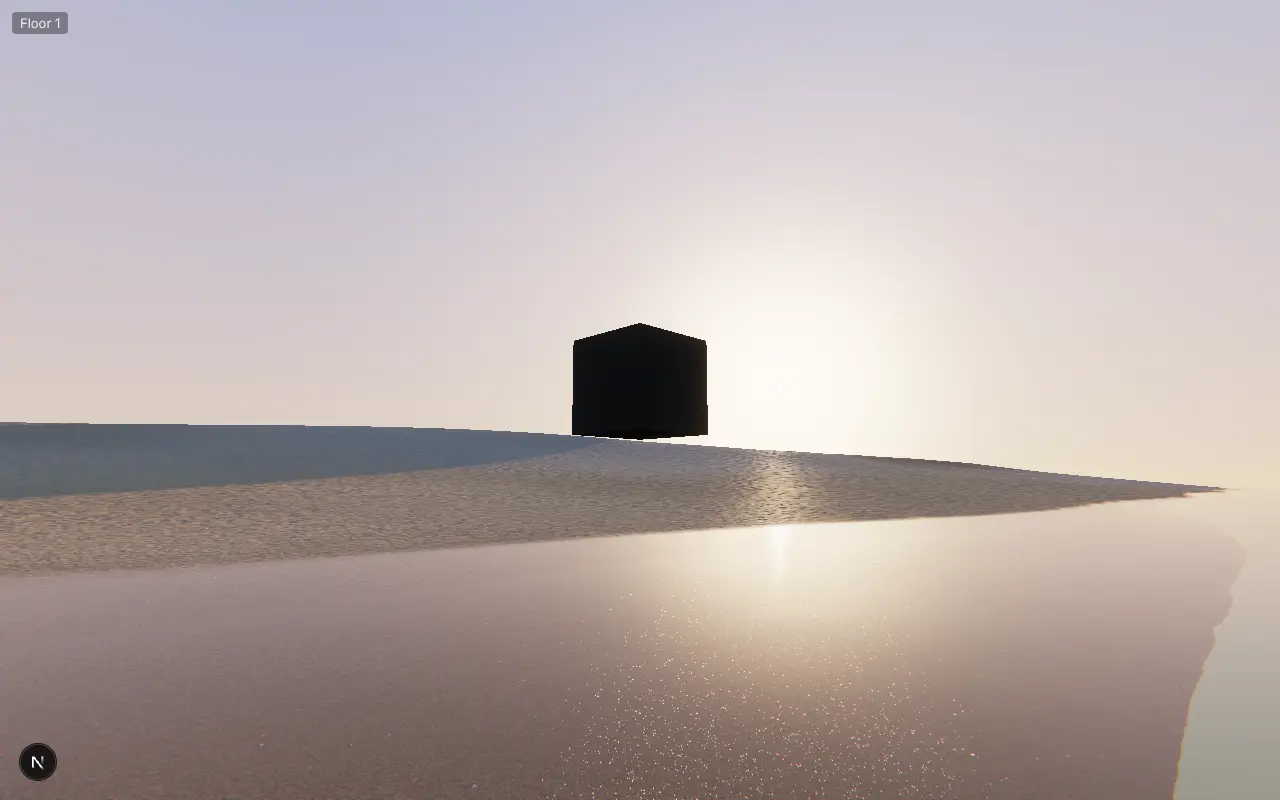
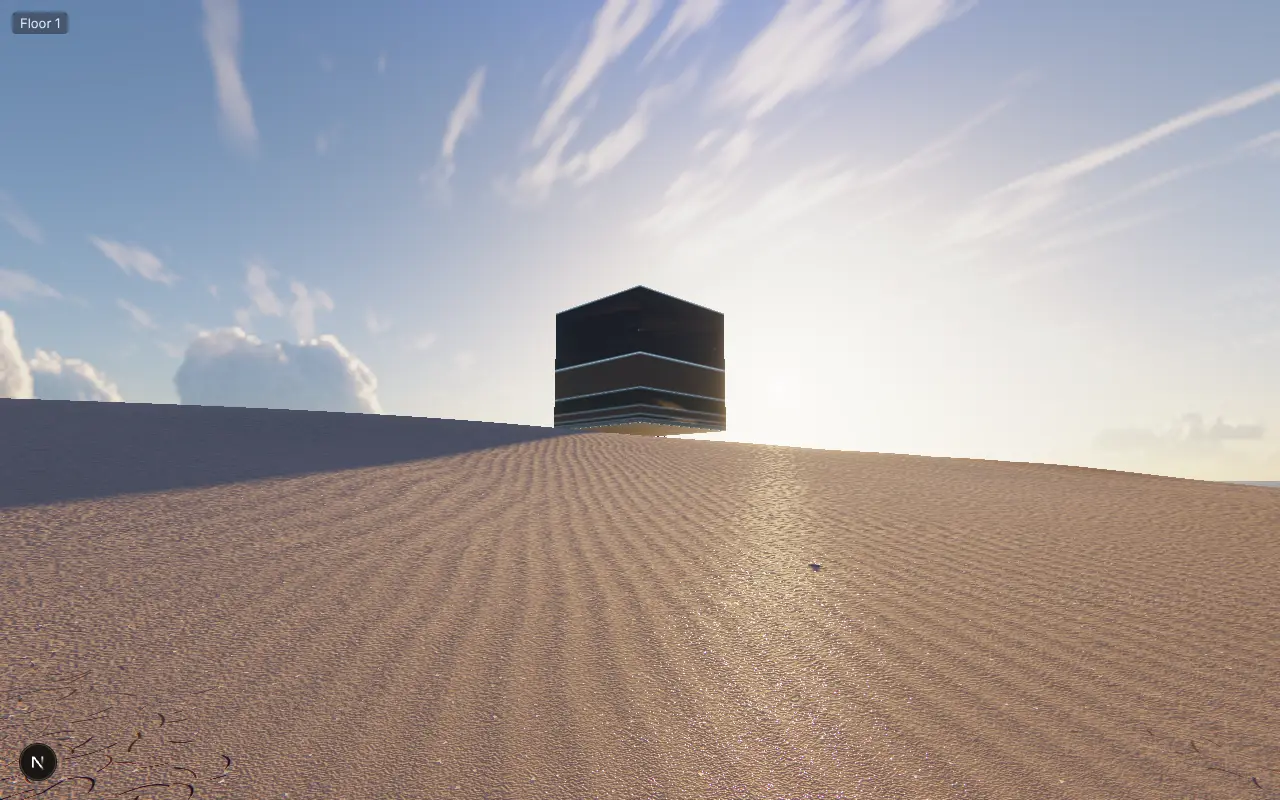
feat: the outside's film keeps telling brighter from bright up to the sun
The outside lens printed through the room's film curve, whose shoulder is
white from about twice sunlit sand up; the sky beside the sun is forty
times that, so the sun read as a wide white area. The outside's film now
follows the room's curve up to exposed light of 1 and nears white along a
slower tail past it: sand and everything dimmer print as they did, the sky
toward the sun grades, and the disc shows in it. `filmic` is the curve's
own function in the theme kit, which `tonemap` and the outside's film both
call.

Claude-Session: https://claude.ai/code/session_01DaohkCDdGLyRAp2Yux9jAB

diff --git a/src/cube/pages/cube/lib/outside-lens.ts b/src/cube/pages/cube/lib/outside-lens.ts
@@ -34,6 +34,23 @@ const LENS = /* wgsl */ `
 /// grain a pixel wide that a wider parting would colour.
 const FRINGE = 0.0005;
 
+/// Where the outside's film leaves the room's curve, in exposed light, and
+/// how slowly it nears white past there: daylight runs from sunlit sand to a
+/// sky forty times brighter beside the sun, and the room's shoulder prints
+/// all of that range white.
+const KNEE = 1.0;
+const TAIL = 0.6;
+
+/// Exposed light to display colour: the room's film up to \`KNEE\`, then a
+/// tail that keeps telling brighter from bright up to the sun's disc.
+fn daylightFilm(colour: vec3f) -> vec3f {
+  let x = max(colour, vec3f(0.0));
+  let knee = vec3f(KNEE);
+  let top = filmic(knee);
+  let tail = 1.0 - (1.0 - top) * pow(knee / max(x, knee), vec3f(TAIL));
+  return pow(select(filmic(min(x, knee)), tail, x > knee), vec3f(1.0 / 2.2));
+}
+
 /// How much of the pixel at \`uv\` shows between eyelids \`open\` of the way open.
 fn betweenLids(uv: vec2f, open: f32) -> f32 {
   let across = uv.x - 0.5;
@@ -45,7 +62,7 @@ fn betweenLids(uv: vec2f, open: f32) -> f32 {
 @fragment
 fn lensFragment(@builtin(position) at: vec4f) -> @location(0) vec4f {
   let l = lensOf(at);
-  let film = tonemap(through(l, 0.03, FRINGE) * uniforms.lens.x);
+  let film = daylightFilm(through(l, 0.03, FRINGE) * uniforms.lens.x);
   let seen = mix(film, themeLens(l), uniforms.lens.z);
   return vec4f(seen * betweenLids(l.uv, uniforms.lens.y), 1.0);
 }`;

diff --git a/src/cube/entities/theme/kit/lib/grade.ts b/src/cube/entities/theme/kit/lib/grade.ts
@@ -25,10 +25,15 @@ fn haze(colour: vec3f, s: Surf, air: vec3f, reach: f32) -> vec3f {
   return mix(air, colour, through);
 }
 
+/// The film's curve: scene light \`x\`, none of it negative, to the share of
+/// white it prints, past 1 for the brightest.
+fn filmic(x: vec3f) -> vec3f {
+  return (x * (2.51 * x + 0.03)) / (x * (2.43 * x + 0.59) + 0.14);
+}
+
 /// Scene light to display colour: a filmic shoulder, then the display's gamma.
 fn tonemap(colour: vec3f) -> vec3f {
-  let x = max(colour, vec3f(0.0));
-  let mapped = (x * (2.51 * x + 0.03)) / (x * (2.43 * x + 0.59) + 0.14);
+  let mapped = filmic(max(colour, vec3f(0.0)));
   return pow(clamp(mapped, vec3f(0.0), vec3f(1.0)), vec3f(1.0 / 2.2));
 }
 

diff --git a/docs/remove-before-merging/cube-intro-j2wt34/frames/core/README.md b/docs/remove-before-merging/cube-intro-j2wt34/frames/core/README.md
@@ -30,5 +30,11 @@ and shadow, and core's stand-ins for sky, shell and sea.
   at `--indoors 0.5`: half used to the light.
 - `sill-adapted.webp` — the same at `--indoors 0`: the eye used to daylight, the
   sand, the sea's edge and the sun.
+- `wake-cube-before-film.webp` — `wake-cube` through the room's film curve, as
+  it was: the sky about the sun one white area. `wake-cube.webp`, `wake-sea.webp`
+  and `ladder-foot.webp` are through the outside's own curve, from the waking
+  spot inland, with the real sky, sea and shell.
+- `sun-film-before-06-04.webp` — the sky about the sun, cropped, three ways: the
+  room's curve, the outside's with its tail at 0.6 (kept), and at 0.4 (greyer).
 - `wake-cube-eyelids-045.webp` — `wake-cube` with `--eyelids 0.45`: the outside
   lens's lids half shut.
